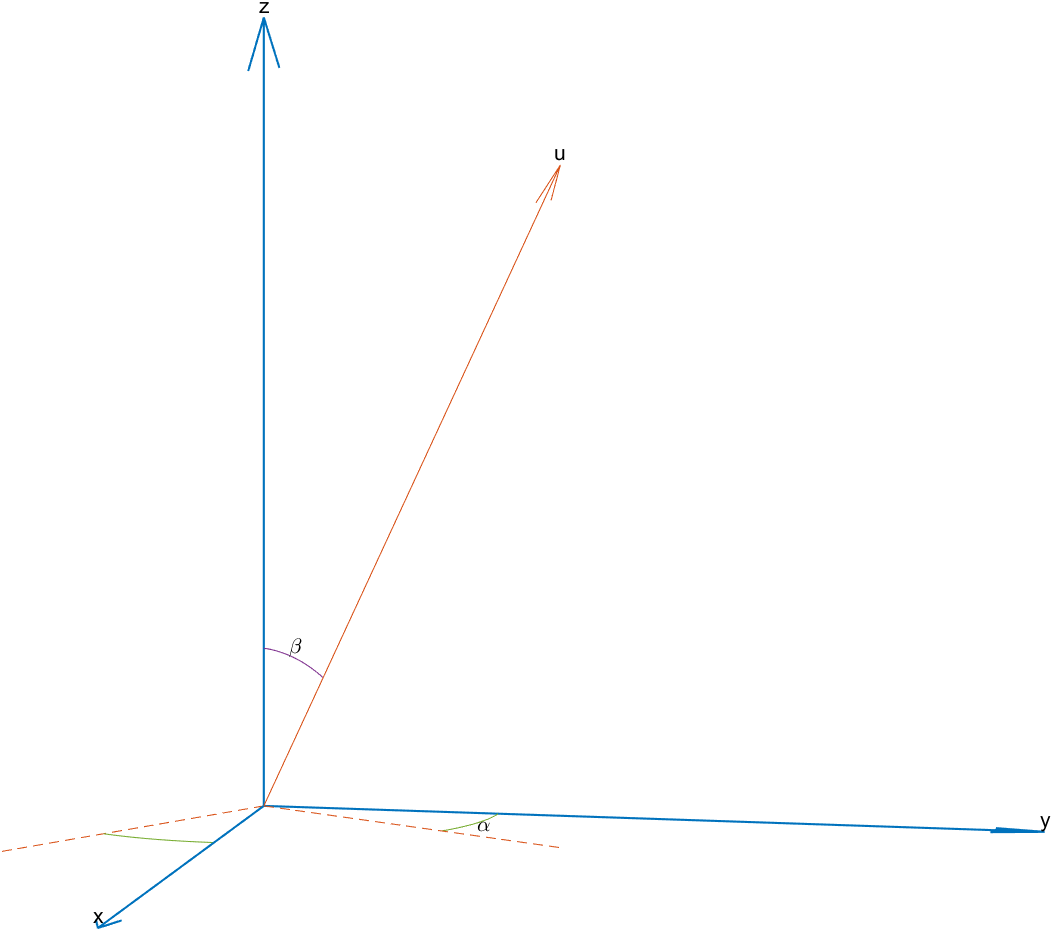
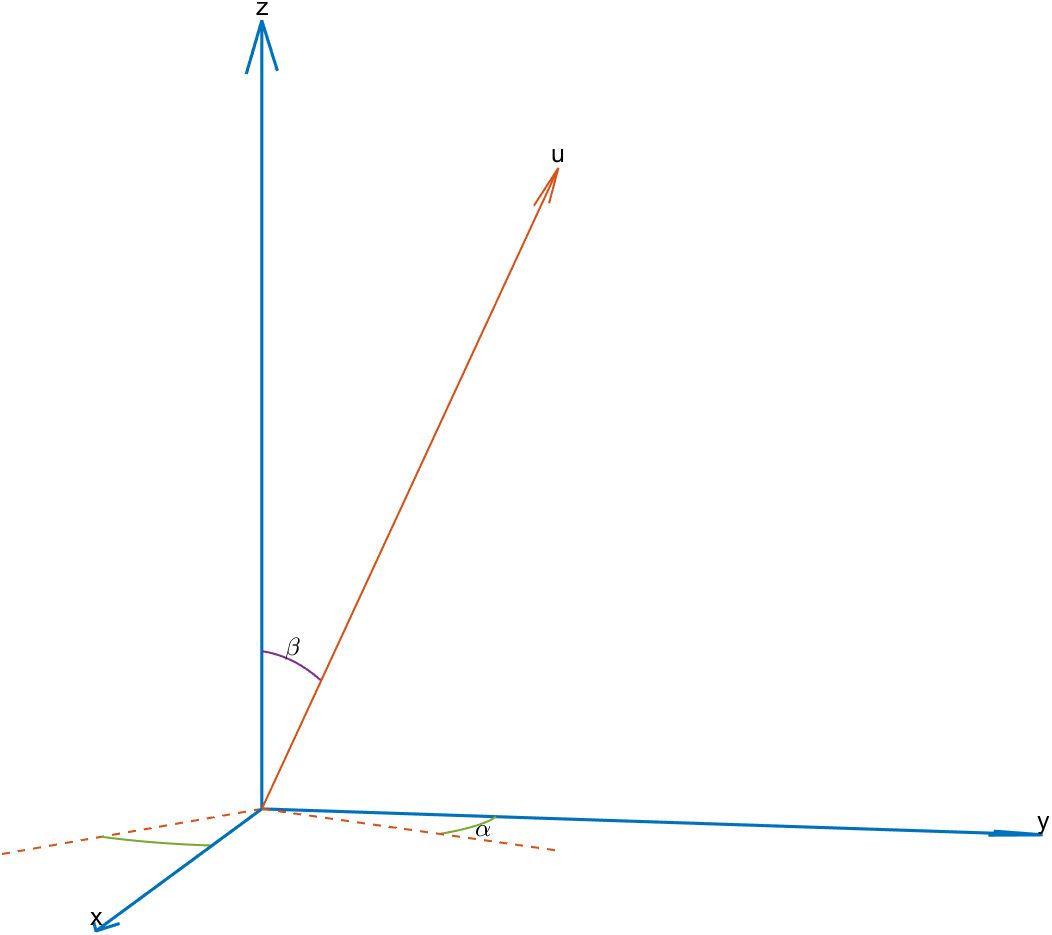
make the lines of the image thicker

diff --git a/VecRotation/Readme.md b/VecRotation/Readme.md
@@ -2,9 +2,8 @@
 * 旋转矩阵
 
 令 $\hat{\boldsymbol{u}}$ 为向量 $\boldsymbol{u}$ 的单位向量，
-<p align="center">
-<img src="image1.png" alt="图1" width="300px"/>
-</p>
+
+<img src="image1.png" alt="图1" width="300px" style="display:block; margin: 0 auto" />
 
 $$
 \boldsymbol{r_1}=
